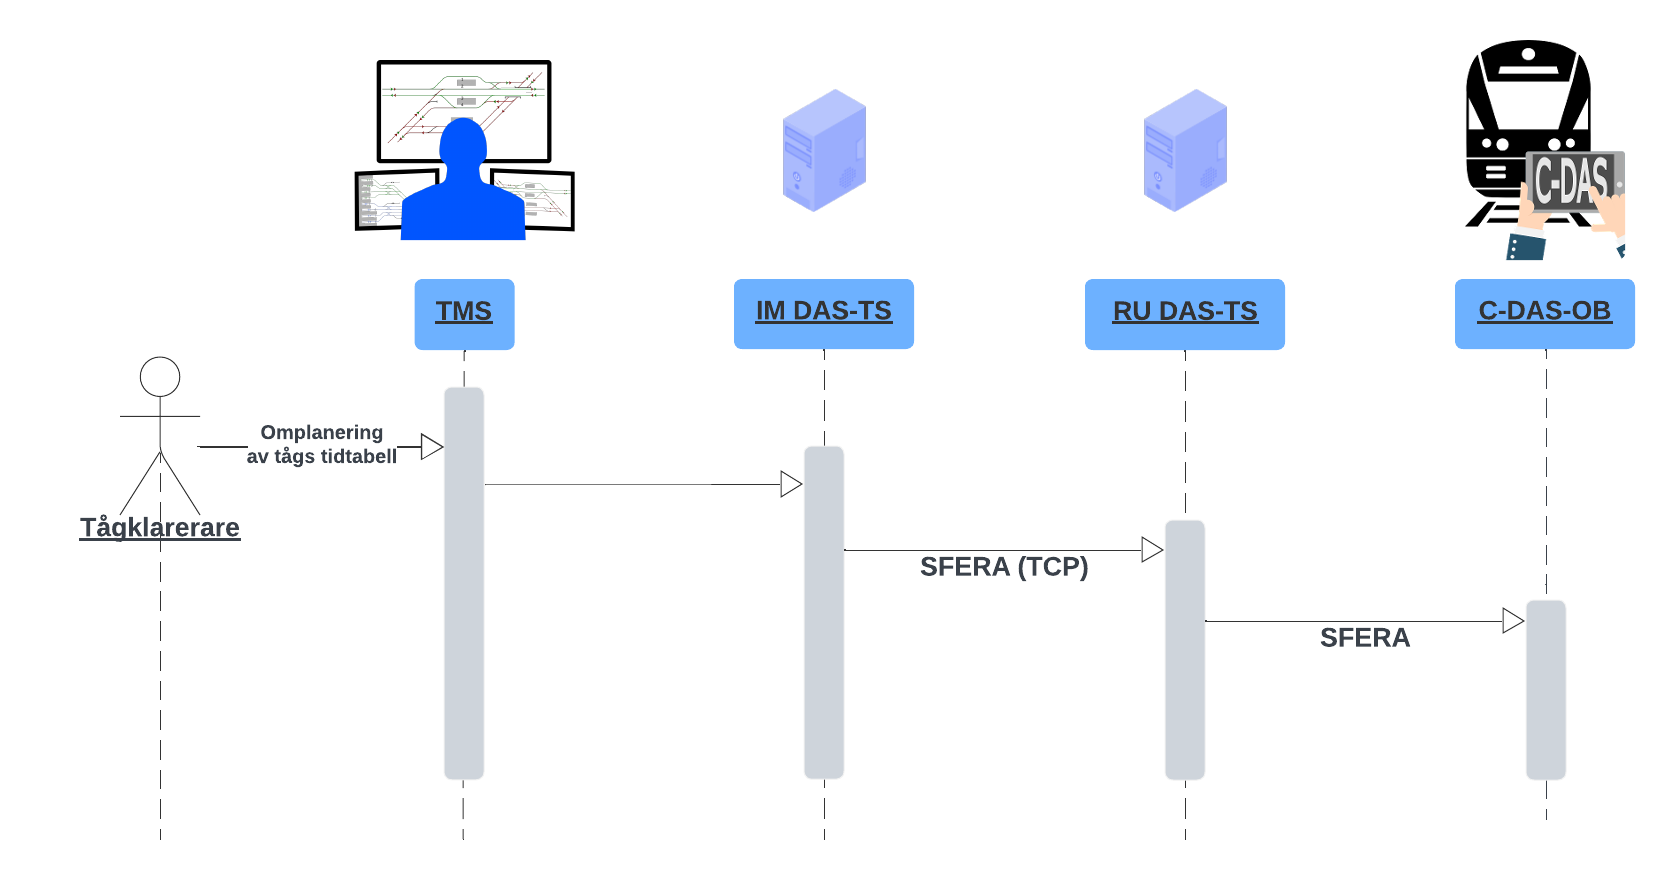
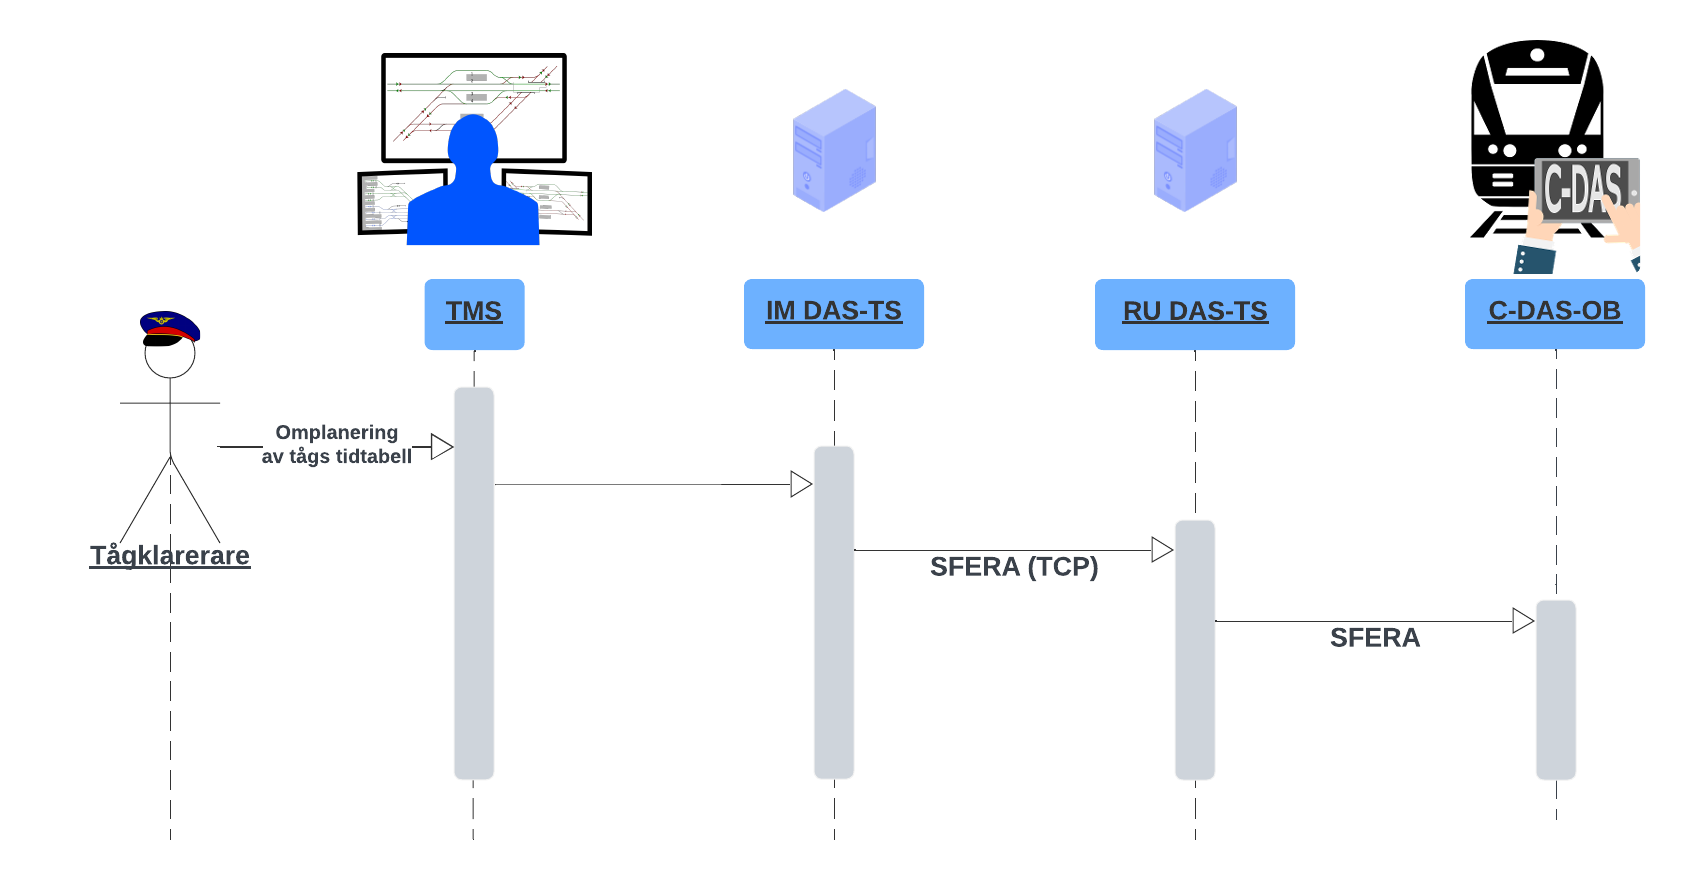
2024-04-2 5

diff --git a/src/c_metod/a_dsr.tex b/src/c_metod/a_dsr.tex
@@ -40,8 +40,11 @@ Riktlinjerna är:
     \item Kommunikation \newline \newline
         Presentationen av forskningen ska anpassas så att den kan förstås lika bra av såväl teknik- som managementorienterade personer.
 \end{enumerate}
-Metoden har tillämpats genom kartläggandet av lokförares kommunikations- och informationsbehov inom ramen för C-DAS\@.
-Detta har gjorts genom kvalitativ datainsamling i form av semi-strukturerade intervjuer.
-Rådande protokoll har kartlagts genom analys av funna dokument.
+Metoden har tillämpats genom analys av funna dokument vilka har kunnat styrka problemrelevansen i en faktisk organisation, något som motsvaras av riktlinje 2 om relevans.
+En kartläggning av lokförares kommunikations- och informationsbehov inom ramen för C-DAS har tagits fram genom kvalitativ datainsamling i form av semi-strukturerade intervjuer.
 En jämförelse har sedan gjorts där lokförarnas behov har ställts mot gällande datautbytesuppställning.
-Efter jämförelsen togs en IT-artefakt fram utifrån det förfinades protokollet som kunde göras med resultatet från intervjuernas sammanställning samt resultatet från litteraturstudien och dokumentanalysen.
+Efter jämförelsen har en IT-artefakt tagits fram utifrån det förfinade protokollet som kunde framställas utifrån resultatet från intervjuernas sammanställning samt resultatet från litteraturstudien och dokumentanalysen.
+Att studien resulterar i en konkret IT-artefakt som ger ett tydligt svar på problemställningen svarar mot riktlinje 1 och 6 i design-science research.
+IT-artefaktens design tillämpar metodens syn på rigorositet i att den har tagits fram systematiskt vilket motsvaras av riktlinje 5.
+%Presentationen av resultaten har framförts i en strävan att språket ska vara tillgängligt både för tekniska intressenter och individer med lägre tekniskt kunnande.
+I en strävan att uppfylla riktlinje 7 om kommunikation har språknivån anpassats för såväl tekniskt bevandrade personer som individer med lägre tekniskt kunnande.

diff --git a/src/a_inledning/b_begrepp_och_forkortningar.tex b/src/a_inledning/b_begrepp_och_forkortningar.tex
@@ -161,7 +161,7 @@ Den av C-DAS-OB beräknade optimala hastighetsprofilen som presenteras för lokf
 Driving profile baseras på realtidsdata, TPE och andra begränsande faktorer (banors egenskaper, motoreffekt, tågvikt etc.)~\cite{IRS90940}.
 Anvisningar/råd kan exempelvis bestå av \lq{}pådrag\rq{}, \lq{}farthållning\rq{}, \lq{}frirull\rq{}, \lq{}broms\rq{} eller en specifik hastighet~\cite{IRS90940}.
 Driving profile beräknas av en algoritm som järnvägsföretaget implementerar i sin C-DAS-lösning.
-Om ett tåg inte kör med C-DAS i någon form (dvs grått tåg) är körprofilen den faktiska körningen så som tåget framförs~\cite{Olsson2023}
+Om ett tåg inte kör med C-DAS i någon form (dvs grått tåg) är körprofilen den faktiska körningen så som tåget framförs~\cite{Olsson2023}.
 \subsubsection{Dataflödet inom C-DAS}
 \begin{figure}[hbt!]
     \centering

diff --git a/src/main.tex b/src/main.tex
@@ -78,6 +78,7 @@
 
 \subsection{Etisk analys}
 Kan det missbrukas?
+Deadline någon gång mellan 29/4 och 7/5.
 
 \section{Resultat}
 \lipsum[1]
